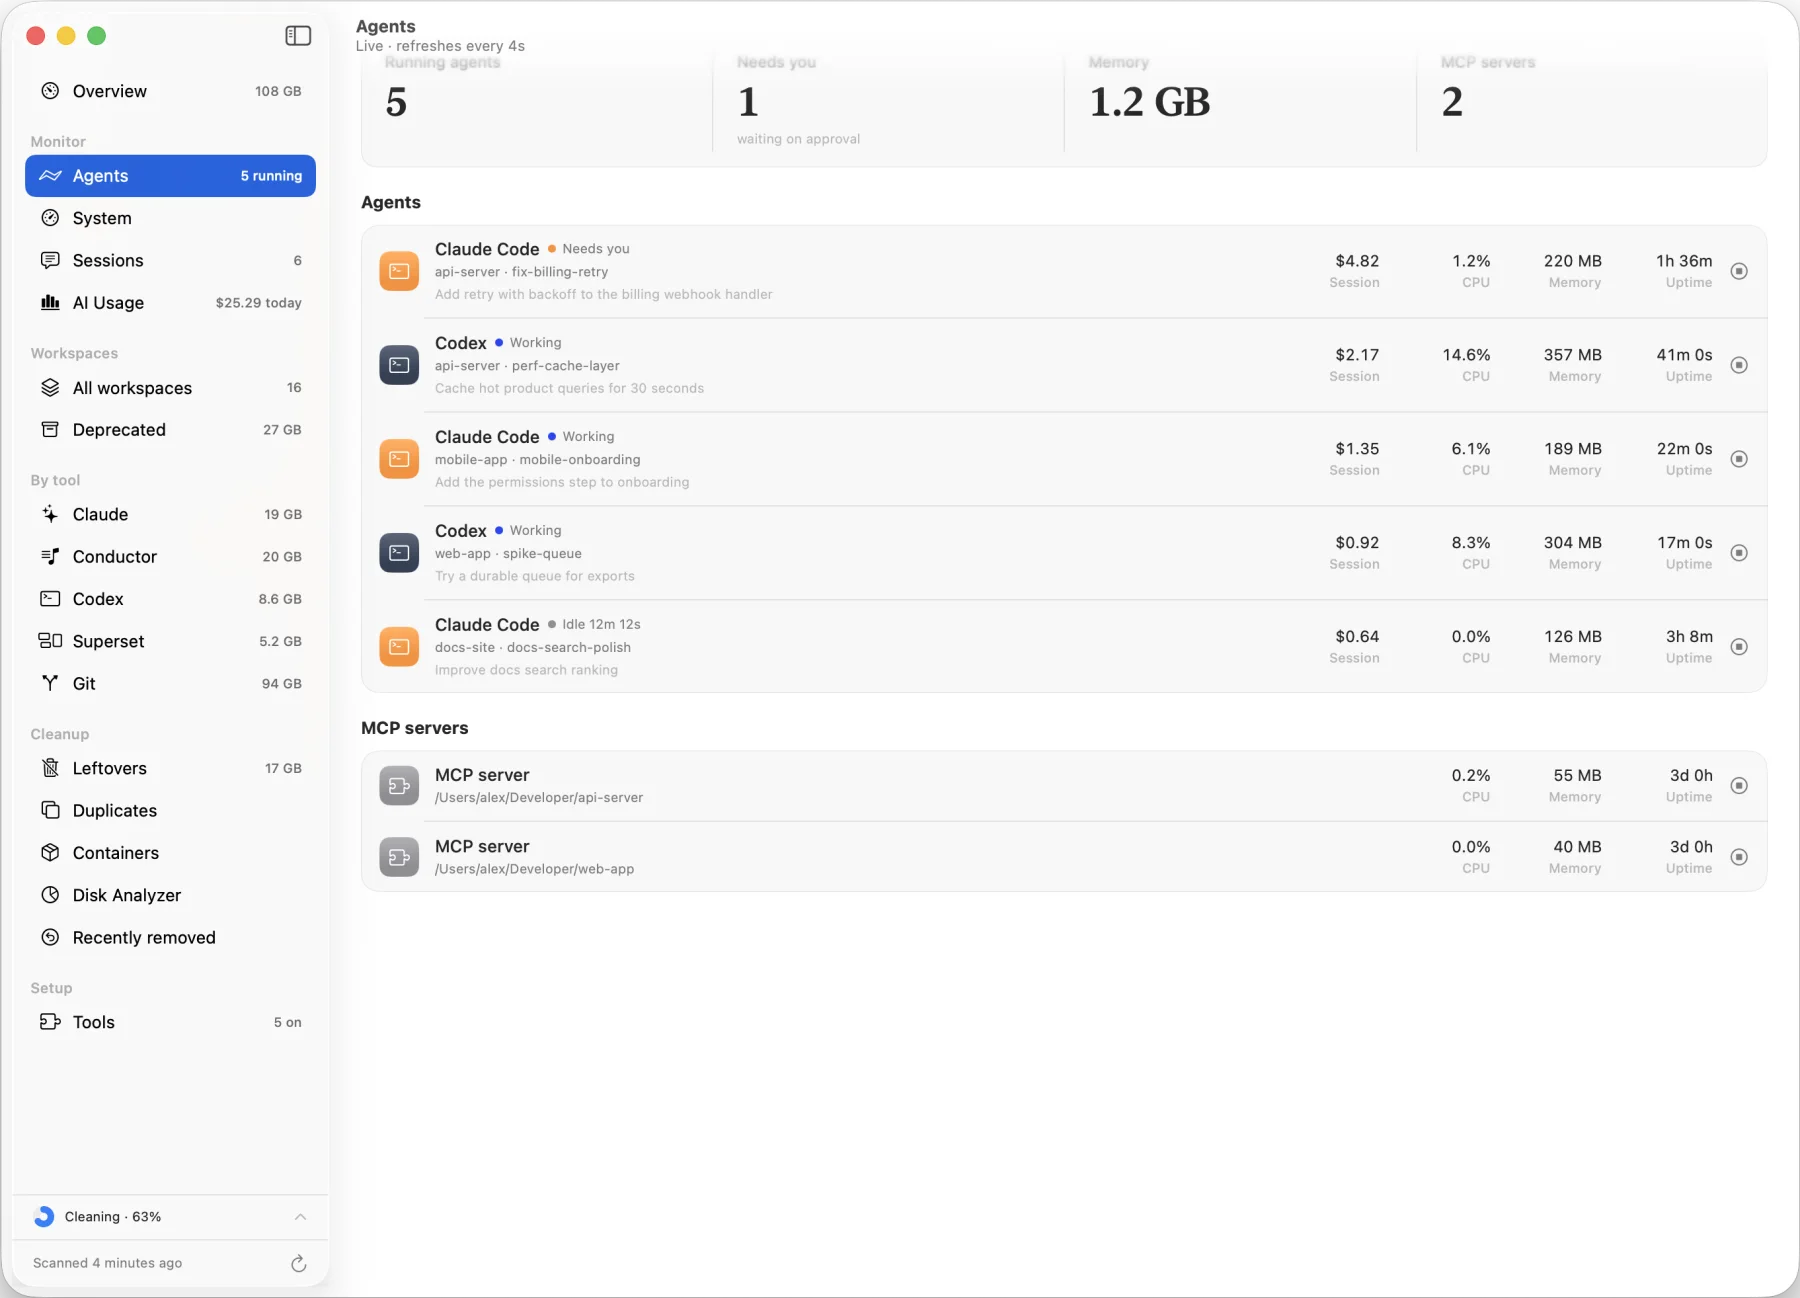
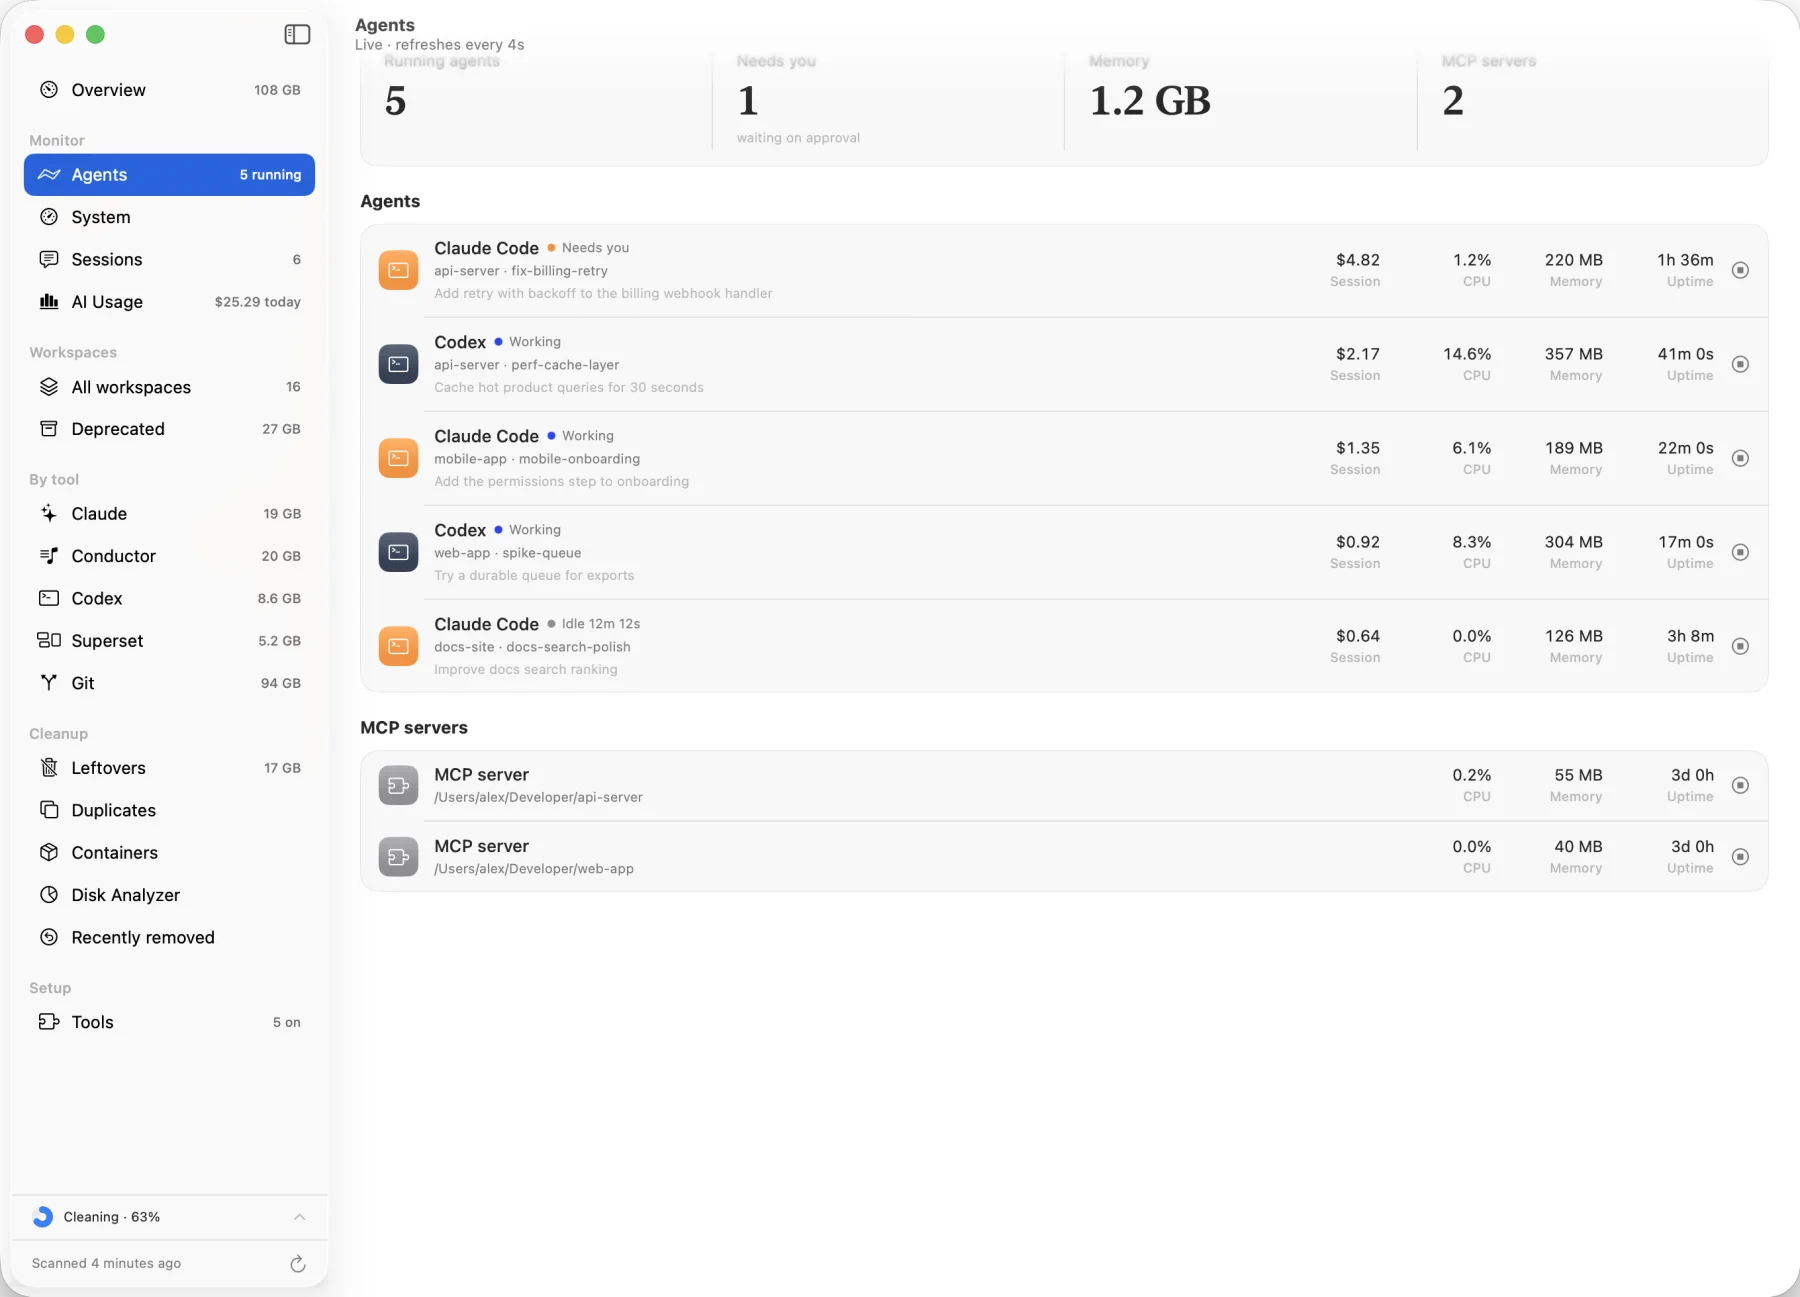
fix(site): crop window captures to exact bounds so the frame matches the corners
The 2px crop margin offset the image corners from the CSS border radius, leaving a visible gap.

diff --git a/site/index.html b/site/index.html
@@ -51,7 +51,7 @@
   </div>
   <div class="stage">
     <div class="wrap">
-      <div class="win win-lg rise"><img src="assets/overview.webp" width="1800" height="1298" alt="The AI Keeper overview: 108 GB you can get back, a bar showing where disk space goes, and the biggest folders with Clean buttons."></div>
+      <div class="win win-lg rise"><img src="assets/overview.webp" width="1800" height="1297" alt="The AI Keeper overview: 108 GB you can get back, a bar showing where disk space goes, and the biggest folders with Clean buttons."></div>
     </div>
   </div>
 </section>
@@ -62,7 +62,7 @@
       <h2>See where the disk went.</h2>
       <p class="prose">One bar splits your disk into developer files, library, tool folders and apps. Below it, the biggest folders each get a plain explanation, and a Clean button when the contents can be rebuilt.</p>
     </div>
-    <div class="plate"><div class="win"><img src="assets/overview-map.webp" width="1800" height="1298" loading="lazy" alt="The disk map: a stacked bar by category and a list of the largest folders with sizes and Clean buttons."></div></div>
+    <div class="plate"><div class="win"><img src="assets/overview-map.webp" width="1800" height="1297" loading="lazy" alt="The disk map: a stacked bar by category and a list of the largest folders with sizes and Clean buttons."></div></div>
   </div>
 </section>
 
@@ -75,7 +75,7 @@
   </div>
   <div class="stage" style="margin-top:0">
     <div class="wrap">
-      <div class="win"><img src="assets/workspaces.webp" width="1800" height="1298" loading="lazy" alt="All workspaces with Git status and PR badges, and an inspector explaining why one worktree is safe to remove."></div>
+      <div class="win"><img src="assets/workspaces.webp" width="1800" height="1297" loading="lazy" alt="All workspaces with Git status and PR badges, and an inspector explaining why one worktree is safe to remove."></div>
     </div>
   </div>
 </section>
@@ -87,15 +87,15 @@
       <p class="prose">Agents lists every running Claude, Codex and other agent with its CPU, memory and session cost. Usage charts daily spend by model from logs on your Mac, and warns you at the budget you set.</p>
     </div>
     <div class="plate"><div class="plate-pair">
-      <div class="win"><img src="assets/agents.webp" width="1800" height="1298" loading="lazy" alt="Running agents with their state, working directory, CPU and cost."></div>
-      <div class="win"><img src="assets/usage.webp" width="1800" height="1298" loading="lazy" alt="Daily AI spend by model across Claude and Codex, with budgets."></div>
+      <div class="win"><img src="assets/agents.webp" width="1800" height="1297" loading="lazy" alt="Running agents with their state, working directory, CPU and cost."></div>
+      <div class="win"><img src="assets/usage.webp" width="1800" height="1297" loading="lazy" alt="Daily AI spend by model across Claude and Codex, with budgets."></div>
     </div></div>
   </div>
 </section>
 
 <section class="section" id="system">
   <div class="wrap split split-flip">
-    <div class="plate"><div class="win"><img src="assets/system.webp" width="1800" height="1298" loading="lazy" alt="The System page with CPU, memory, disk and network charts and the heaviest process groups."></div></div>
+    <div class="plate"><div class="win"><img src="assets/system.webp" width="1800" height="1297" loading="lazy" alt="The System page with CPU, memory, disk and network charts and the heaviest process groups."></div></div>
     <div class="copy-col">
       <h2>A health check in the sidebar.</h2>
       <p class="prose">CPU, memory, disk and network in one live view. Developer processes are grouped, so a runaway build stands out.</p>
@@ -124,7 +124,7 @@
       <p class="prose">Each cleanup opens a list of exactly what will be removed and how much space it frees. Unpushed and uncommitted work is saved first, and workspaces with a running agent are skipped.</p>
       <p class="prose">Everything runs on your Mac. No account needed.</p>
     </div>
-    <div class="plate plate-center"><div class="win win-dialog"><img src="assets/cleanup-confirm.webp" width="1083" height="809" loading="lazy" alt="The confirmation dialog listing three workspaces to remove and the space each frees."></div></div>
+    <div class="plate plate-center"><div class="win win-dialog"><img src="assets/cleanup-confirm.webp" width="1079" height="805" loading="lazy" alt="The confirmation dialog listing three workspaces to remove and the space each frees."></div></div>
   </div>
 </section>
 

diff --git a/site/styles.css b/site/styles.css
@@ -142,12 +142,12 @@ h3 { font-size: var(--fs-lg); letter-spacing: -0.02em; line-height: 1.2; }
 .stage .wrap { position: relative; }
 /* A macOS window: corners are a percentage of the width (26pt on a 1360pt capture), a hairline edge and
    an inner top highlight like AppKit draws, and the neutral layered shadow. */
-.win { position: relative; width: 100%; border-radius: 1.9% / 2.63%; box-shadow: var(--e-md); background: #fff; }
+.win { position: relative; width: 100%; border-radius: 1.88% / 2.6%; box-shadow: var(--e-md); background: #fff; }
 .win img { width: 100%; border-radius: inherit; }
 .win::after { content: ""; position: absolute; inset: 0; border-radius: inherit; pointer-events: none;
   box-shadow: inset 0 0 0 1px rgb(0 0 0 / .12), inset 0 1px 0 rgb(255 255 255 / .55); }
 .win-lg { box-shadow: var(--e-lg); }
-.win-dialog { border-radius: 4.4% / 5.9%; max-width: 540px; }
+.win-dialog { border-radius: 4.73% / 6.34%; max-width: 540px; }
 .rise { animation: rise .9s var(--ease) both; animation-delay: .1s; }
 @keyframes rise { from { opacity: 0; transform: translateY(24px); } to { opacity: 1; transform: none; } }
 
